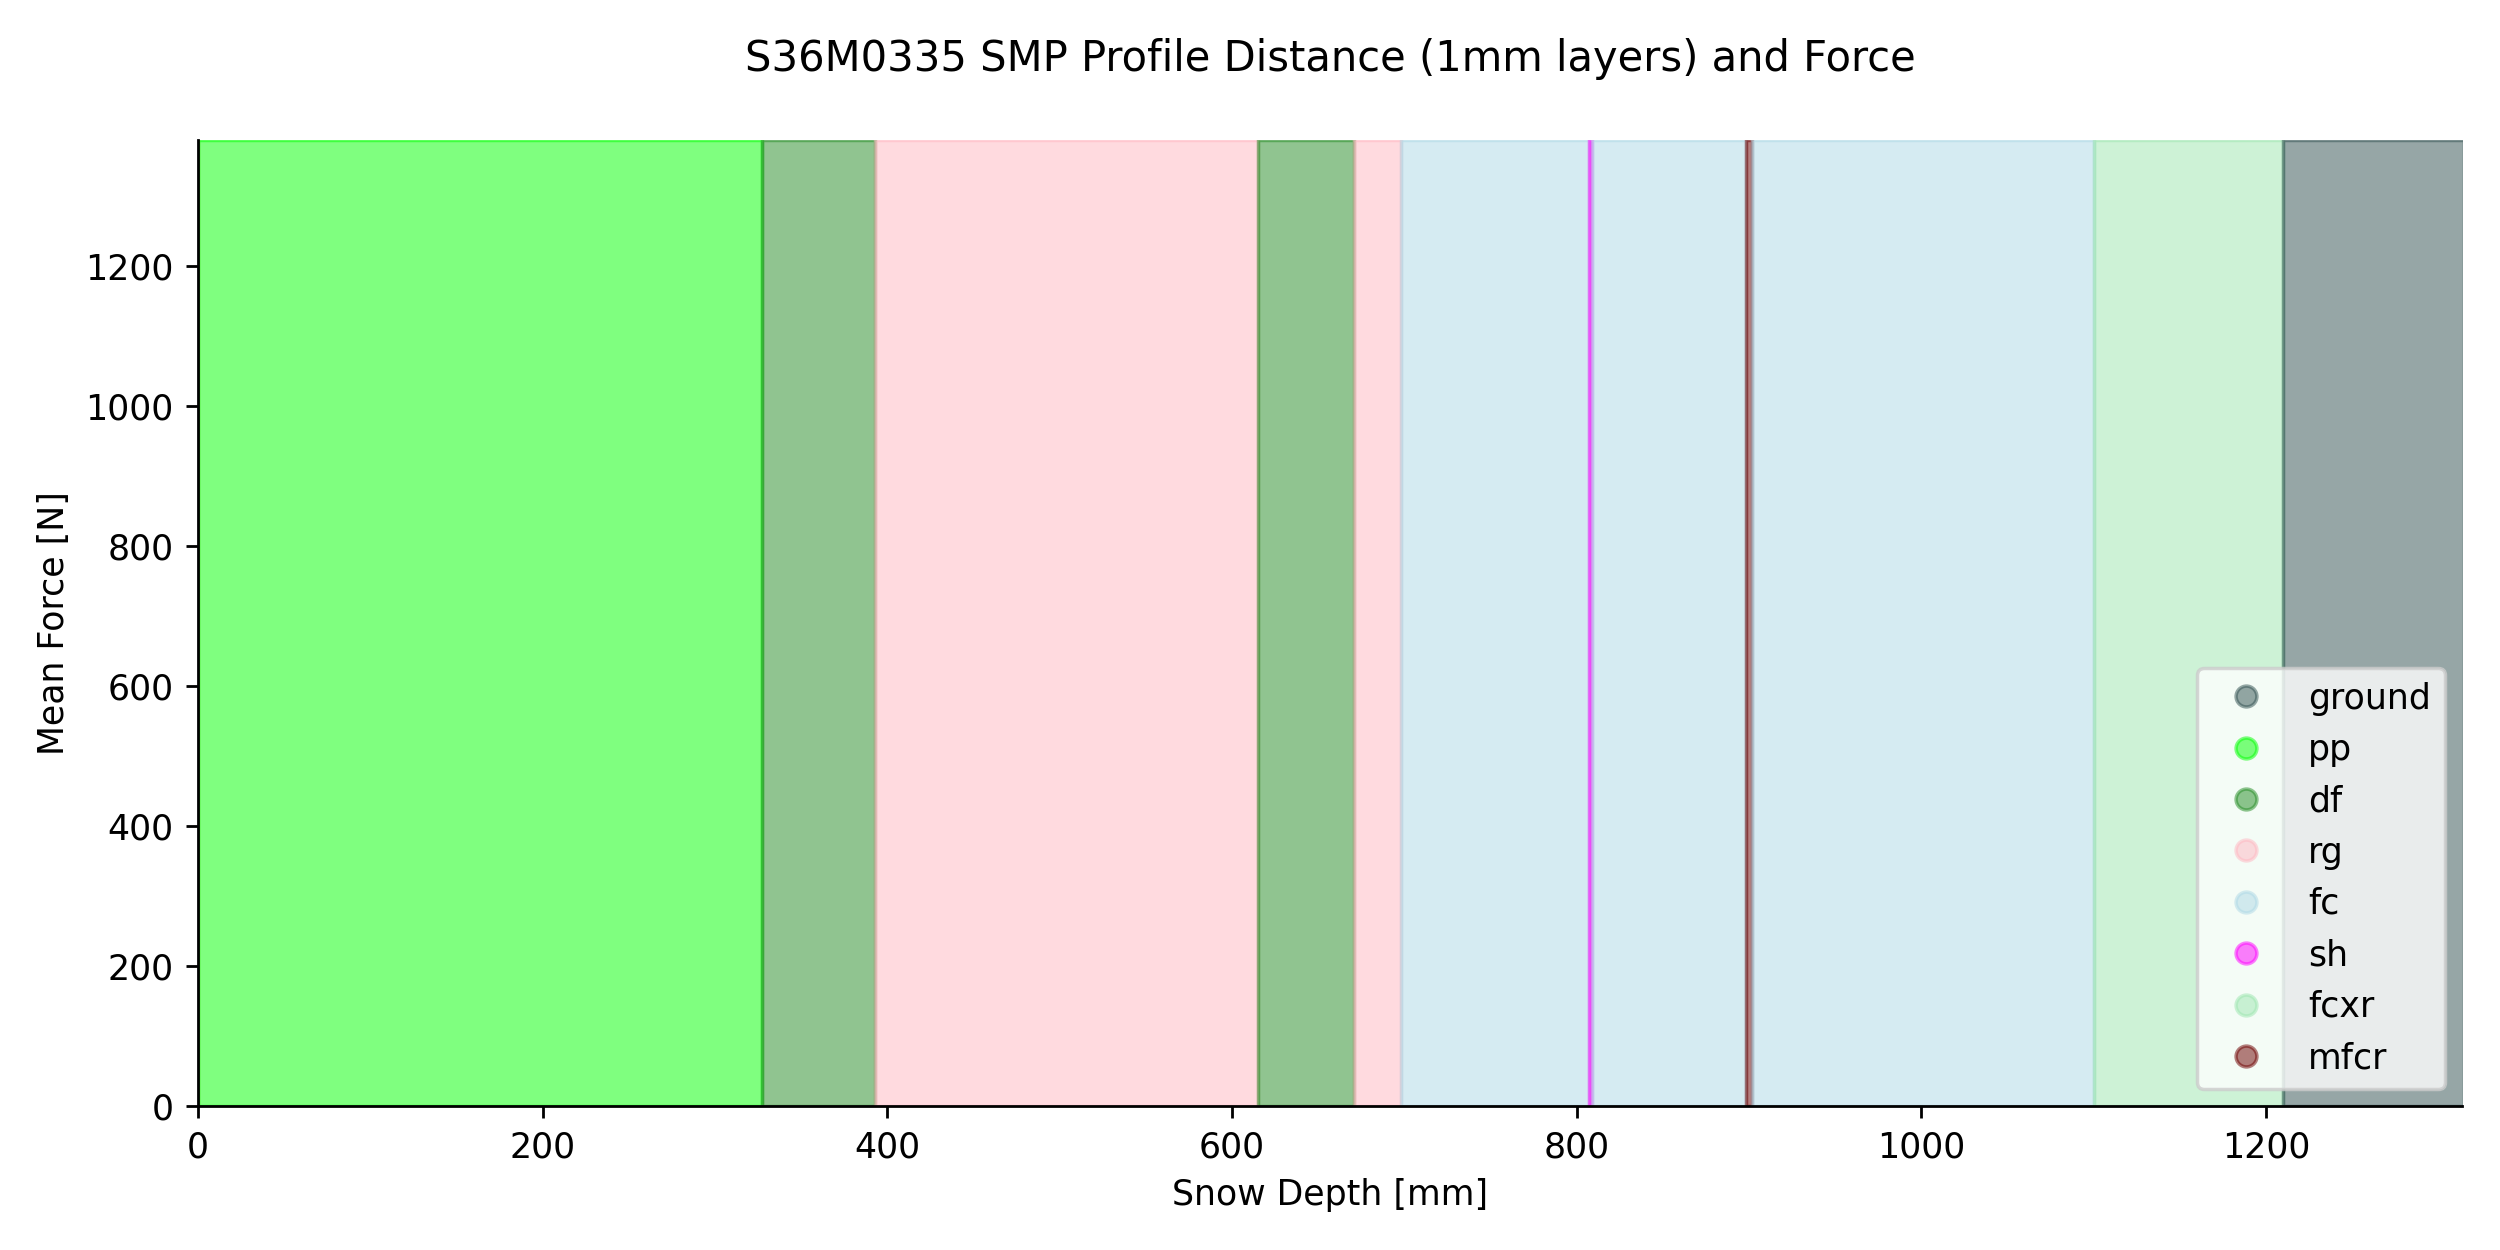
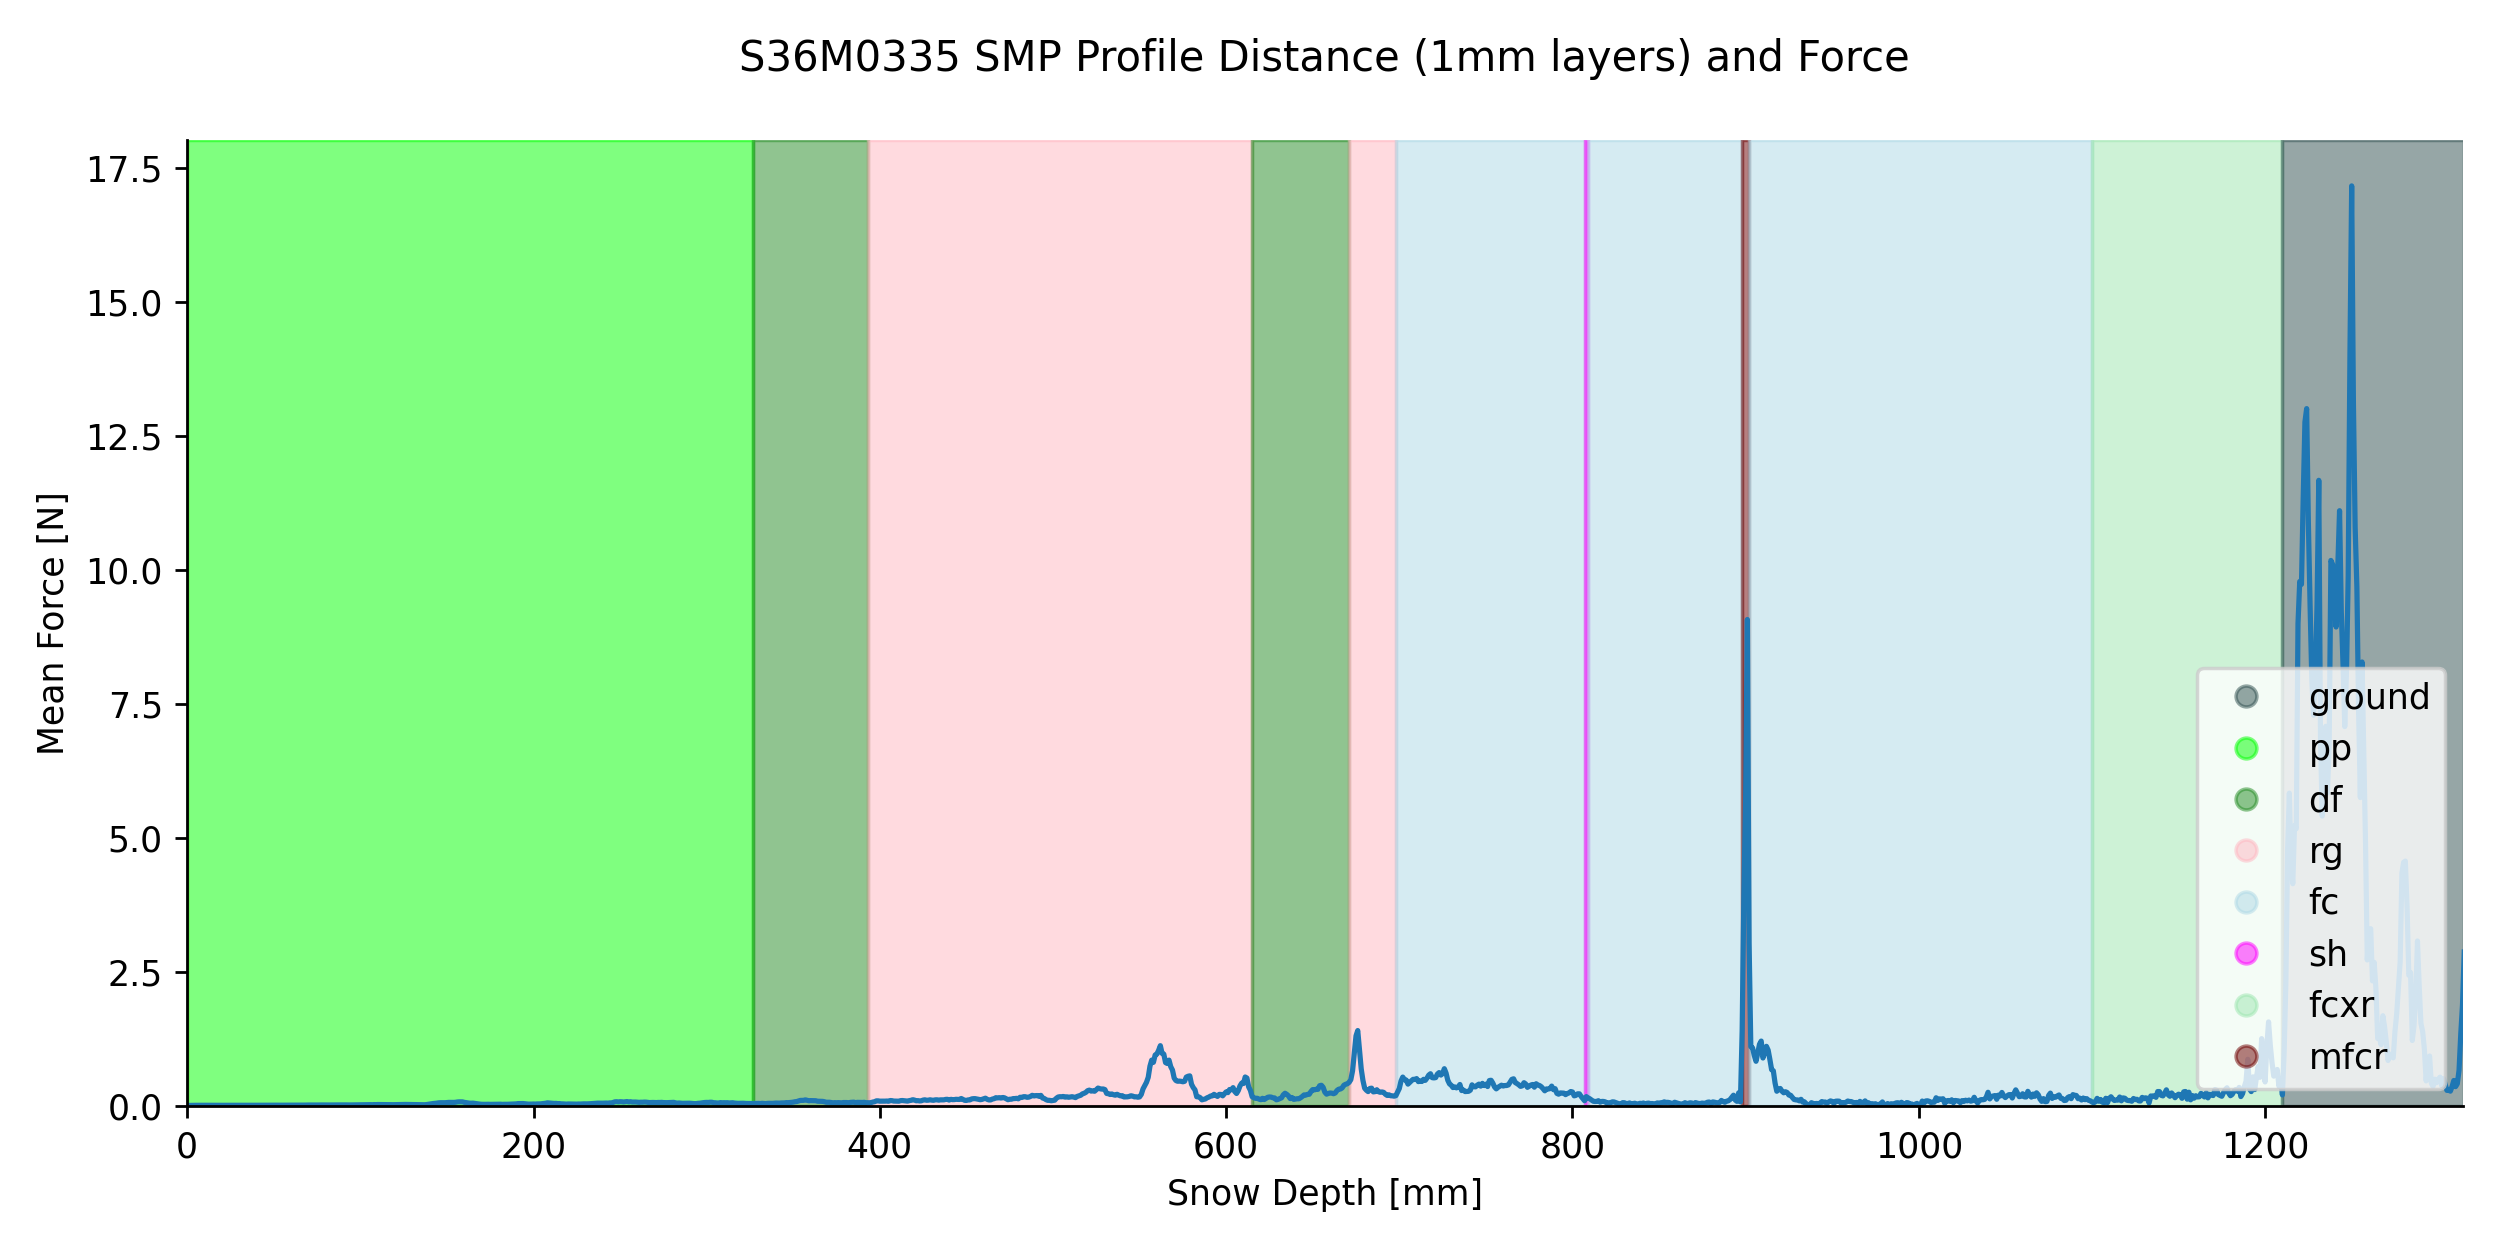
fixed visualization for original smp data plots

diff --git a/models/run_models.py b/models/run_models.py
@@ -167,7 +167,7 @@ def normalize_mosaic(smp):
     smp = normalize(smp, "dist_ground", min=smp["dist_ground"].min(), max=smp["dist_ground"].max())
     return smp
 
-def preprocess_dataset(smp_file_name, output_file=None, visualize=False, sample_size_unlabelled=1000, tsne=None, ignore_unlabelled=False):
+def preprocess_dataset(smp_file_name, output_file=None, visualize=True, sample_size_unlabelled=1000, tsne=None, ignore_unlabelled=False):
     """ Preprocesses the complete smp data and returns what is needed for the models.
     Parameters:
         smp_file_name (str): where the complete smp data is saved
@@ -212,7 +212,7 @@ def preprocess_dataset(smp_file_name, output_file=None, visualize=False, sample_
     #smp_org = remove_nans_mosaic(smp_org)
 
     # 2. Visualize before normalization
-    #if visualize: visualize_original_data(smp_org)
+    if visualize: visualize_original_data(smp_org)
 
     # 3. Normalize
     smp = normalize_mosaic(smp_org)
@@ -856,7 +856,7 @@ def main():
         data = preprocess_dataset(
             smp_file_name=args.smp_npz, 
             output_file=args.preprocess_file, 
-            visualize=False, 
+            visualize=True, 
             ignore_unlabelled=True) 
     else:
         with open(args.preprocess_file, "rb") as myFile:

diff --git a/visualization/plot_profile.py b/visualization/plot_profile.py
@@ -551,7 +551,7 @@ def smp_unlabelled(smp, smp_name, file_name="output/plots_data/smp_unlabelled.pn
     else:
         smp_wanted = smp_name
     smp_profile = smp[smp["smp_idx"] == smp_wanted]
-    ax = sns.lineplot(data=(smp_profile["distance"], smp_profile["mean_force"]))
+    ax = sns.lineplot(data=smp_profile, x="distance",y ="mean_force") #ax = sns.lineplot(data=(smp_profile["distance"], smp_profile["mean_force"]))
     plt.title("Unlabelled SMP Profile {}".format(smp_name))
     ax.set_xlabel("Snow Depth [mm]")
     ax.set_ylabel("Mean Force [N]")
@@ -582,7 +582,7 @@ def smp_labelled(smp, smp_name, title=None, file_name="output/plots_data/smp_lab
         smp_wanted = smp_name
 
     smp_profile = smp[smp["smp_idx"] == smp_wanted]
-    ax = sns.lineplot(data=(smp_profile["distance"], smp_profile["mean_force"]))
+    ax = sns.lineplot(data=smp_profile, x="distance",y ="mean_force") #ax = sns.lineplot(data=(smp_profile["distance"], smp_profile["mean_force"]))
     if title is None:
         plt.title("{} SMP Profile Distance (1mm layers) and Force\n".format(smp_name))
     else:

diff --git a/visualization/run_visualization.py b/visualization/run_visualization.py
@@ -97,7 +97,7 @@ def visualize_original_data(smp):
     # PLOT BOGPLOT
     #bog_plot(smp, file_name=path+"bog_plot.png")
     # PLOT ALL IN ONE PLOT
-    all_in_one_plot(smp, file_name="output/plots_data/original/overview_data_updatedaxis.png", profile_name=smp_profile_name, title=None)
+    #all_in_one_plot(smp, file_name="output/plots_data/original/overview_data_updatedaxis.png", profile_name=smp_profile_name, title=None)
     #all_in_one_plot(smp, file_name="output/plots_data/original/overview_data_indices.png", show_indices=True)
 
 def visualize_results(all_scores, label_acc, label_prec, cf_matrix=True, roc_auc=True, bog_plot=True, comparison=True):

diff --git a/CHANGELOG.md b/CHANGELOG.md
@@ -247,6 +247,18 @@ into:
     sns.lineplot(data=(x,y),...)
     ```
 
+-   update in def `smp_unlabelled()` in line 554 an in def `smp_labelled()` in line 585 the lineplot statement:
+
+    ```
+    ax = sns.lineplot(data=(smp_profile["distance"], smp_profile["mean_force"]))
+    ```
+
+    into
+
+    ```
+     ax = sns.lineplot(data=smp_profile, x="distance",y ="mean_force")
+    ```
+
 -   update your labels for your legend in def `ini_bogplots()` in Line 102
 
     ```
